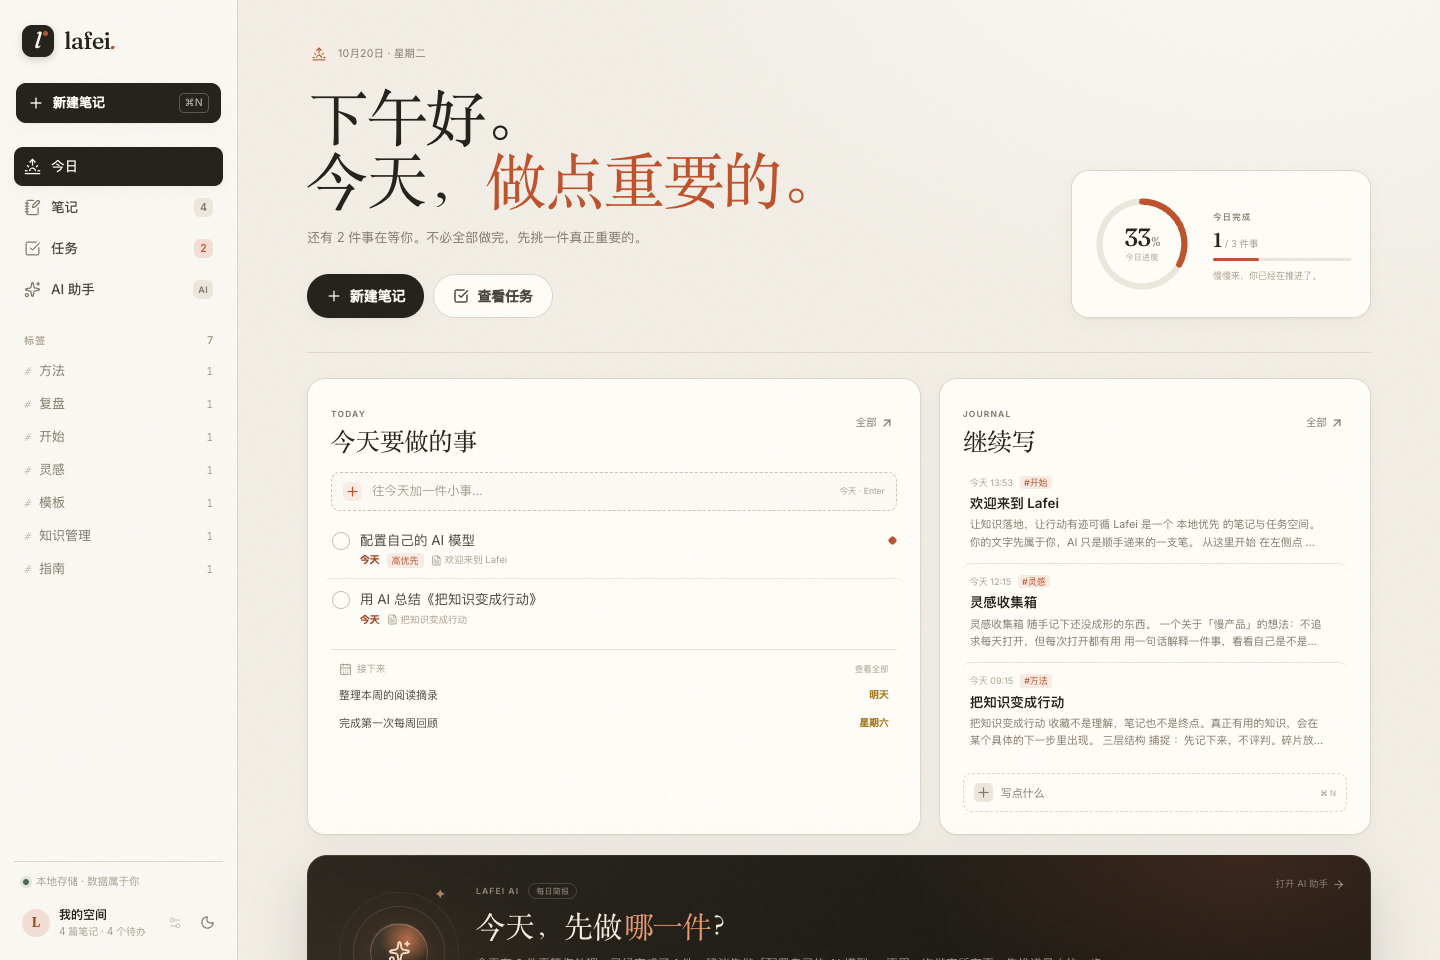
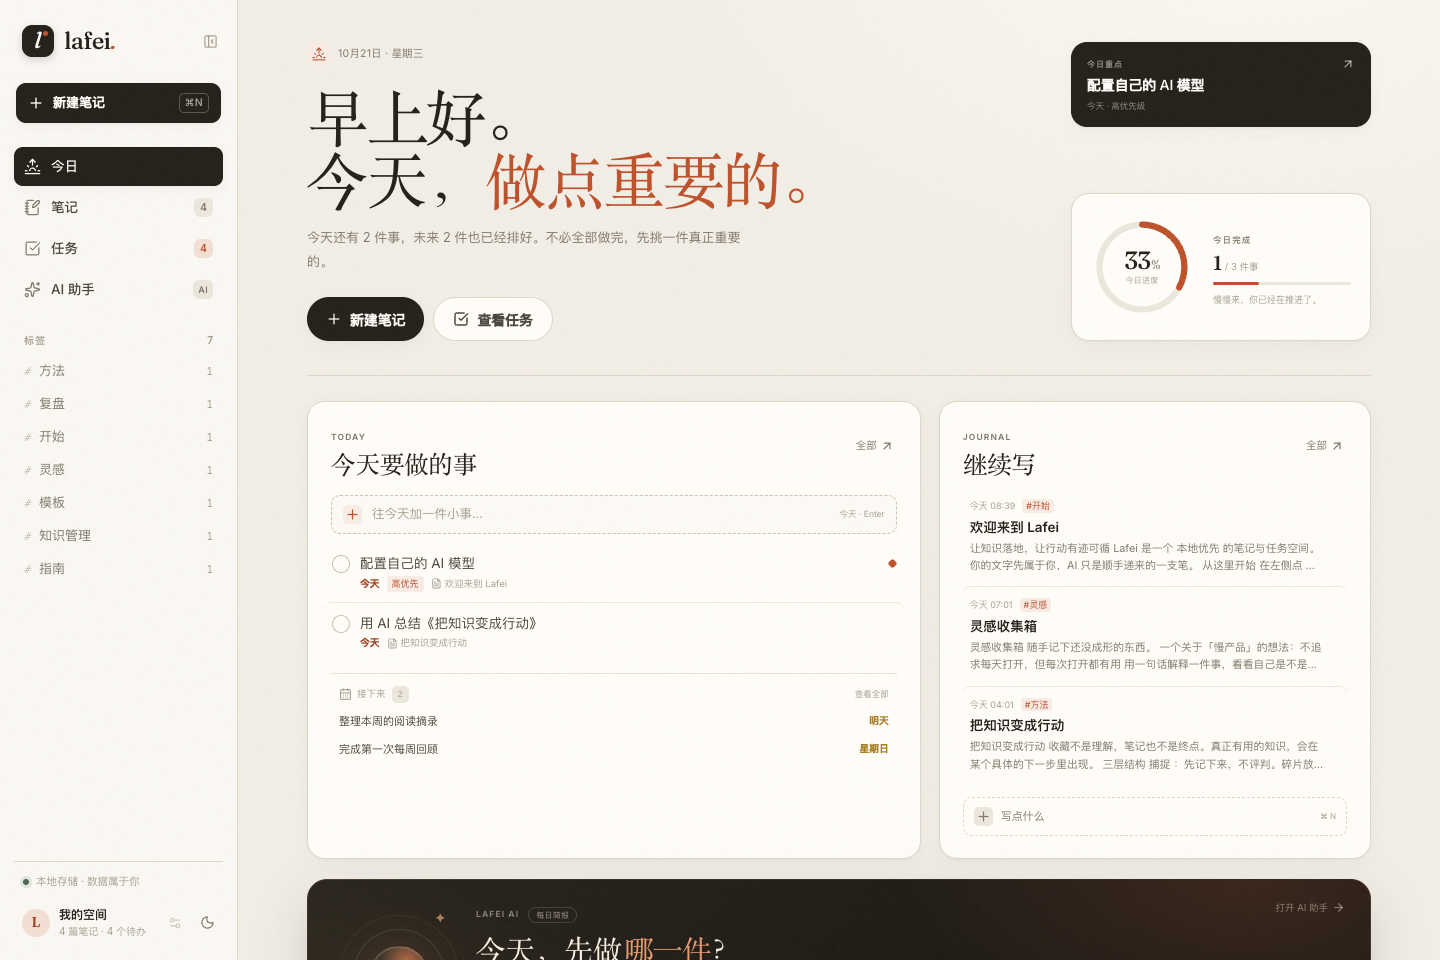
feat(today): use hero whitespace for a focus task

diff --git a/src/views/TodayView.tsx b/src/views/TodayView.tsx
@@ -46,6 +46,7 @@ export function TodayView() {
   const [briefBusy, setBriefBusy] = useState(false);
   const [briefError, setBriefError] = useState("");
   const abortRef = useRef<AbortController | null>(null);
+  const quickInputRef = useRef<HTMLInputElement>(null);
 
   useEffect(() => () => abortRef.current?.abort(), []);
 
@@ -65,6 +66,8 @@ export function TodayView() {
   const recentNotes = notes.slice().sort((a, b) => b.updatedAt - a.updatedAt).slice(0, 3);
   const noteMap = new Map(notes.map((note) => [note.id, note]));
   const importantTask = focusTasks.find((task) => task.priority === "high") ?? focusTasks[0];
+  const focusCardTask = importantTask ?? upcomingAll[0] ?? null;
+  const focusCardKind = importantTask ? "今日重点" : upcomingAll[0] ? "下一件" : "今天留白";
 
   const localBrief = (() => {
     if (focusTasks.length === 0 && completedToday.length === 0) {
@@ -202,8 +205,36 @@ export function TodayView() {
             </div>
           </div>
 
-          <div className="today-progress-card">
-            <div className="today-ring-wrap">
+          <div className="today-hero-side">
+            <button
+              type="button"
+              className={cn("today-focus-card", !focusCardTask && "is-empty")}
+              onClick={() => {
+                if (focusCardTask) {
+                  useUI.getState().setTaskDetailId(focusCardTask.id);
+                } else {
+                  quickInputRef.current?.focus();
+                  quickInputRef.current?.scrollIntoView({ block: "center", behavior: "smooth" });
+                }
+              }}
+              title={focusCardTask ? `打开任务：${focusCardTask.title}` : "快速添加今天的第一件事"}
+            >
+              <span className="today-focus-kicker">
+                <span className="eyebrow">{focusCardKind}</span>
+                {focusCardTask ? <ArrowUpRight size={14} /> : <Plus size={14} />}
+              </span>
+              <strong>
+                {focusCardTask ? focusCardTask.title : "给今天留一件重要的事"}
+              </strong>
+              <span className="today-focus-meta">
+                {focusCardTask
+                  ? `${dueLabel(focusCardTask.dueDate).label}${focusCardTask.priority === "high" ? " · 高优先级" : ""}`
+                  : "从下面快速添加，或先看看未来任务。"}
+              </span>
+            </button>
+
+            <div className="today-progress-card">
+              <div className="today-ring-wrap">
               <svg viewBox="0 0 112 112" className="today-ring">
                 <circle cx="56" cy="56" r={ringRadius} className="today-ring-track" />
                 <circle
@@ -235,6 +266,7 @@ export function TodayView() {
                     ? "慢慢来，你已经在推进了。"
                     : "第一件事，从现在开始。"}
               </span>
+              </div>
             </div>
           </div>
         </header>
@@ -263,6 +295,7 @@ export function TodayView() {
                 <Plus size={15} />
               </span>
               <input
+                ref={quickInputRef}
                 value={quickTitle}
                 onChange={(event) => setQuickTitle(event.target.value)}
                 placeholder="往今天加一件小事…"

diff --git a/src/index.css b/src/index.css
@@ -9992,3 +9992,109 @@ select:focus-visible,
   gap: 8px;
   flex-wrap: wrap;
 }
+
+/* ---------- today: use the hero's right column ---------- */
+
+.today-hero {
+  align-items: stretch;
+}
+
+.today-hero-side {
+  min-width: 0;
+  display: flex;
+  flex-direction: column;
+  justify-content: space-between;
+  gap: 14px;
+}
+
+.today-focus-card {
+  min-width: 0;
+  display: flex;
+  flex-direction: column;
+  gap: 5px;
+  padding: 14px 15px 13px;
+  border: 1px solid var(--ink);
+  border-radius: 16px;
+  background: var(--ink);
+  color: var(--surface-raised);
+  text-align: left;
+  box-shadow: var(--shadow-sm);
+  transition: transform 0.18s var(--ease), background 0.18s var(--ease), box-shadow 0.18s var(--ease);
+}
+
+.today-focus-card:hover {
+  transform: translateY(-1px);
+  background: var(--ink-soft);
+  box-shadow: var(--shadow-md);
+}
+
+.today-focus-kicker {
+  display: flex;
+  align-items: center;
+  justify-content: space-between;
+  gap: 12px;
+  color: color-mix(in srgb, var(--surface-raised) 58%, transparent);
+}
+
+.today-focus-kicker .eyebrow {
+  color: color-mix(in srgb, var(--surface-raised) 55%, transparent);
+  font-size: 8px;
+}
+
+.today-focus-card strong {
+  color: var(--surface-raised);
+  font-size: 14px;
+  font-weight: 550;
+  line-height: 1.35;
+  letter-spacing: -0.012em;
+  display: -webkit-box;
+  -webkit-line-clamp: 2;
+  -webkit-box-orient: vertical;
+  overflow: hidden;
+}
+
+.today-focus-meta {
+  color: color-mix(in srgb, var(--surface-raised) 48%, transparent);
+  font-size: 8.5px;
+  line-height: 1.5;
+}
+
+.today-focus-card.is-empty {
+  border: 1px dashed var(--line-strong);
+  background: color-mix(in srgb, var(--surface-raised) 45%, transparent);
+  box-shadow: none;
+  color: var(--ink-soft);
+}
+
+.today-focus-card.is-empty:hover {
+  background: var(--surface-raised);
+  box-shadow: var(--shadow-sm);
+}
+
+.today-focus-card.is-empty .today-focus-kicker,
+.today-focus-card.is-empty .today-focus-kicker .eyebrow {
+  color: var(--faint);
+}
+
+.today-focus-card.is-empty strong {
+  color: var(--ink-soft);
+}
+
+.today-focus-card.is-empty .today-focus-meta {
+  color: var(--faint);
+}
+
+.today-hero-side .today-progress-card {
+  flex-shrink: 0;
+}
+
+@media (max-width: 820px) {
+  .today-hero-side {
+    display: block;
+    width: 100%;
+  }
+
+  .today-focus-card {
+    display: none;
+  }
+}

diff --git a/src/views/SettingsView.tsx b/src/views/SettingsView.tsx
@@ -285,7 +285,7 @@ export function SettingsView() {
               </div>
               <div>
                 <strong>设置</strong>
-                <span>lafei · v0.6</span>
+                <span>lafei · v0.6.1</span>
               </div>
             </div>
             <div className="settings-nav-items">
@@ -770,7 +770,7 @@ export function SettingsView() {
                       <i />
                     </div>
                     <div>
-                      <span className="eyebrow">Lafei · v0.6.0</span>
+                      <span className="eyebrow">Lafei · v0.6.1</span>
                       <h3 className="display">把知识收好，把行动理清。</h3>
                       <p>一个本地优先的笔记与任务应用，AI 是内置的，不是后装的外挂。</p>
                     </div>

diff --git a/README.md b/README.md
@@ -51,7 +51,7 @@
 - 截止日期、优先级、备注、关联笔记；支持今天、明天、三天后、自定义日期和无日期
 - 逾期高亮、今日进度；侧边栏显示全部未完成任务数，有逾期时高亮
 - 在任务详情里直接跳回来源笔记；删除笔记时任务会保留
-- 今日页一键快速添加，并把未来的截止任务单独列出来
+- 今日页一键快速添加，并把未来的截止任务单独列出来；右上角显示“今日重点 / 下一件”
 - 每条截止任务直接显示「剩余 N 天」，日期分组也标注剩余天数；今天 / 逾期有独立标签
 - 月历视图：按日期铺开任务分布，支持切换月份、回到今天、点选某天查看当日任务
 
@@ -132,9 +132,9 @@ pnpm desktop:build   # 生成 .app / .dmg（macOS）或对应平台安装包
 macOS 构建产物：
 
 ```text
-Lafei-0.6.0-macOS-arm64.dmg                                      # 可直接分发的安装包
+Lafei-0.6.1-macOS-arm64.dmg                                      # 可直接分发的安装包
 src-tauri/target/release/bundle/macos/Lafei.app                  # 未打包的应用
-src-tauri/target/release/bundle/dmg/Lafei_0.6.0_aarch64.dmg      # Tauri 原始产物
+src-tauri/target/release/bundle/dmg/Lafei_0.6.1_aarch64.dmg      # Tauri 原始产物
 ```
 
 > 构建产物（`.app` / `.dmg`）不进入 Git，正式版本请通过 GitHub Releases 分发。当前本地产物是 Apple Silicon（arm64）版本，使用 ad-hoc 签名，未做 Apple 公证；若系统提示无法验证，右键应用选择「打开」，或在终端执行：
@@ -307,7 +307,7 @@ scripts/mock-ai.mjs 本地 AI 演示服务
 
 ## 已知限制
 
-这是 `0.6.0`，一个可以真实日用的本地 MVP，但不是完成品：
+这是 `0.6.1`，一个可以真实日用的本地 MVP，但不是完成品：
 
 - 文件夹同步是文件级的、最终一致的，不是实时协作；冲突采用更新时间优先，没有逐行合并
 - 手机 PWA 不能直接读取 iCloud Drive；目前需要备份迁移，原生 iOS 版尚未生成

diff --git a/CHANGELOG.md b/CHANGELOG.md
@@ -3,6 +3,14 @@
 所有值得记录的变更都会写在这里。格式参考 [Keep a Changelog](https://keepachangelog.com/zh-CN/1.1.0/)，
 版本号遵循 [Semantic Versioning](https://semver.org/lang/zh-CN/)。
 
+## [0.6.1] - 2026-10-21
+
+### Changed
+
+- Today 页顶部右侧新增「今日重点 / 下一件」卡片，利用原来进度卡上方的空白
+- 点击重点卡可直接打开任务；没有任务时会聚焦快速添加
+- 今日进度卡保留在右列底部，和左侧按钮对齐；手机端仍保持单列进度卡
+
 ## [0.6.0] - 2026-10-21
 
 ### Added
